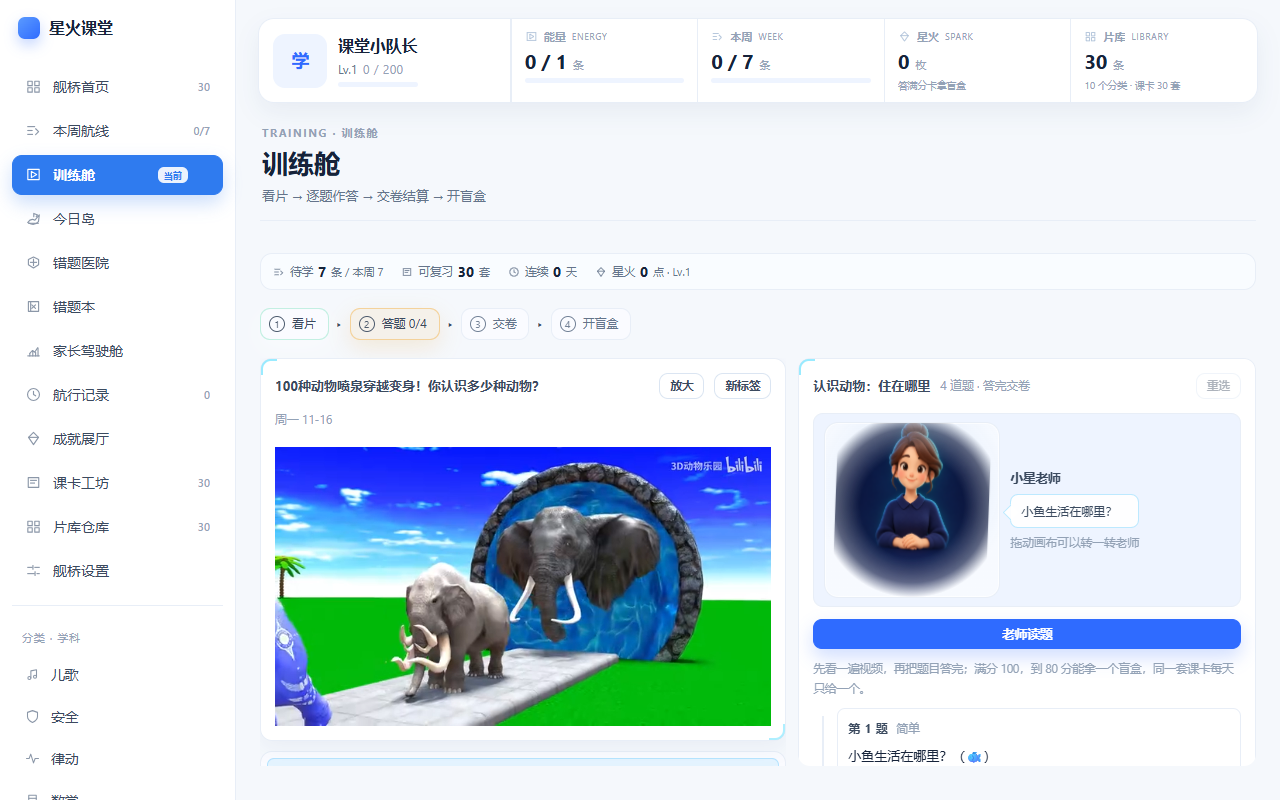
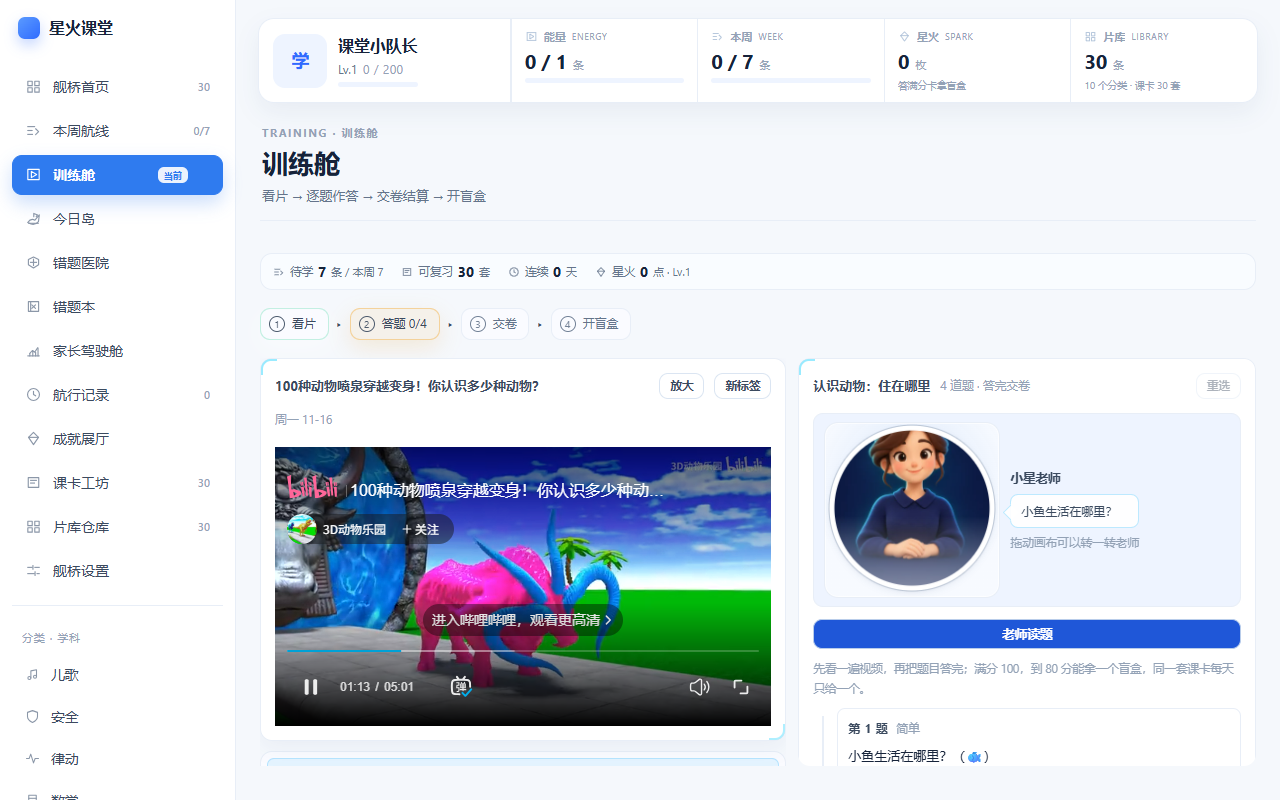
fix(teacher): 小星老师改圆形头像框，深底变相框
- 画布裁切由圆角矩形改为圆形（radius=min(w,h)×0.46），白描边 + 淡蓝外描边 + 柔和投影
- 去掉 0.9.1 的 destination-out 径向淡出（圆裁已解决深底出框），改圆内底部提亮
- 修自转露底：横向压缩 0.5-1.0 → 0.84-1.0，绘制尺寸 max(w,h)×1.32，任何角度圆内不露底色
- 朗读光晕移入圆内跟随口型；docs/screenshots/learn.png 换本轮真机画面；版本 0.9.3

Changed region(s): [[0.1875, 0.5312, 0.9688, 0.9062]]

diff --git a/client.js b/client.js
@@ -283,23 +283,26 @@ window.__ModuleLoader__.load({
           const cy = cssH / 2 + bob - speak * 1.6
           const art = teacherArtImage()
           if (art && art.complete && art.naturalWidth > 0 && typeof ctx.drawImage === 'function') {
-            if (speaking) {
-              const glow = ctx.createRadialGradient(cx, cy - 8 * scale, 6 * scale, cx, cy - 8 * scale, 66 * scale)
-              glow.addColorStop(0, 'rgba(124,214,255,' + (0.18 + speak * 0.2).toFixed(3) + ')')
-              glow.addColorStop(1, 'rgba(124,214,255,0)')
-              ctx.fillStyle = glow
-              ctx.beginPath()
-              ctx.arc(cx, cy - 8 * scale, 66 * scale, 0, Math.PI * 2)
-              ctx.fill()
-            }
-            const side = Math.max(cssW, cssH) * 1.04 * breath
+            // 圆形头像框：素材是不透明深底，圆形裁切把深底变成「相框」
+            const faceR = Math.min(cssW, cssH) * 0.46
+            const ringW = Math.max(3, Math.round(Math.min(cssW, cssH) * 0.026))
+            const side = Math.max(cssW, cssH) * 1.32 * breath
             const cos = Math.cos(yaw)
-            const squeeze = 0.5 + 0.5 * Math.abs(cos)
+            const squeeze = 0.84 + 0.16 * Math.abs(cos)
             ctx.save()
             ctx.beginPath()
-            if (typeof ctx.roundRect === 'function') ctx.roundRect(0, 0, cssW, cssH, 10)
-            else ctx.rect(0, 0, cssW, cssH)
+            ctx.arc(cx, cy, faceR, 0, Math.PI * 2)
+            ctx.fillStyle = '#f7faff'
+            ctx.shadowColor = 'rgba(23,58,110,0.16)'
+            ctx.shadowBlur = 9 * scale
+            ctx.shadowOffsetY = 3 * scale
+            ctx.fill()
+            ctx.restore()
+            ctx.save()
+            ctx.beginPath()
+            ctx.arc(cx, cy, faceR, 0, Math.PI * 2)
             ctx.clip()
+            ctx.save()
             ctx.imageSmoothingEnabled = true
             ctx.imageSmoothingQuality = 'high'
             ctx.translate(cx, cy)
@@ -307,15 +310,32 @@ window.__ModuleLoader__.load({
             ctx.scale(cos < 0 ? -1 : 1, 1)
             ctx.drawImage(art, -side * squeeze / 2, -side / 2, side * squeeze, side)
             ctx.restore()
-            // 老师原图自带深色底，用径向淡出把四角融进浅色卡片，只留人物周围的柔和暗晕
-            const vignette = ctx.createRadialGradient(cx, cy - 4 * scale, Math.min(cssW, cssH) * 0.30, cx, cy - 4 * scale, Math.min(cssW, cssH) * 0.53)
-            vignette.addColorStop(0, 'rgba(0,0,0,0)')
-            vignette.addColorStop(0.62, 'rgba(0,0,0,0.35)')
-            vignette.addColorStop(1, 'rgba(0,0,0,1)')
+            if (speaking) {
+              const glow = ctx.createRadialGradient(cx, cy - 14 * scale, 4 * scale, cx, cy - 14 * scale, faceR * 1.1)
+              glow.addColorStop(0, 'rgba(124,214,255,' + (0.16 + speak * 0.22).toFixed(3) + ')')
+              glow.addColorStop(1, 'rgba(124,214,255,0)')
+              ctx.fillStyle = glow
+              ctx.beginPath()
+              ctx.arc(cx, cy, faceR, 0, Math.PI * 2)
+              ctx.fill()
+            }
+            const lift = ctx.createLinearGradient(0, cy + faceR * 0.1, 0, cy + faceR)
+            lift.addColorStop(0, 'rgba(247,250,255,0)')
+            lift.addColorStop(1, 'rgba(247,250,255,0.5)')
+            ctx.fillStyle = lift
+            ctx.fillRect(cx - faceR, cy + faceR * 0.1, faceR * 2, faceR)
+            ctx.restore()
             ctx.save()
-            ctx.globalCompositeOperation = 'destination-out'
-            ctx.fillStyle = vignette
-            ctx.fillRect(0, 0, cssW, cssH)
+            ctx.beginPath()
+            ctx.arc(cx, cy, faceR, 0, Math.PI * 2)
+            ctx.lineWidth = ringW
+            ctx.strokeStyle = '#ffffff'
+            ctx.stroke()
+            ctx.beginPath()
+            ctx.arc(cx, cy, faceR + ringW / 2 + 0.5, 0, Math.PI * 2)
+            ctx.lineWidth = 1
+            ctx.strokeStyle = 'rgba(147,162,182,0.55)'
+            ctx.stroke()
             ctx.restore()
           }
           timeRef.current = ts

diff --git a/README.en.md b/README.en.md
@@ -28,6 +28,11 @@ It is not a recommendation algorithm — the parent chooses every clip and has t
 | Card workshop | One quiz card per video, 3–8 questions each |
 | Bridge settings | Clips per day / default age / weekly box cap; the 54-item prize pool with stock and weights; medal thresholds; **parent-lock PIN**; content pack export/import; replay onboarding |
 
+### New in 0.9.3 (round avatar frame for the teacher)
+
+- The teacher portrait now sits in a **circular avatar frame** (white ring, soft blue outer stroke, gentle drop shadow), so the artwork's dark background reads as portrait depth instead of a navy block on a light card.
+- Horizontal squeeze during the drag-to-turn animation is reduced from 0.5–1.0 to 0.84–1.0 with a larger draw size, so no angle exposes the colour outside the circle; the speaking glow now stays inside the circle.
+
 ### New in 0.9.2 (asset size)
 
 - All 20 illustrations are now **WebP** (quality 88, alpha preserved): `assets/art` drops from 7.0MB to 0.64MB and the delivery zip from 9.4MB to 1.9MB.

diff --git a/README.md b/README.md
@@ -27,6 +27,11 @@
 | 课卡工坊 | 一条视频一套卡，每套 3–8 题 |
 | 舰桥设置 | 每天几条 / 默认年龄 / 每周抽盒上限；奖品池 54 件的库存与权重；勋章门槛；**家长锁 PIN**；内容包导出/导入；重看新手引导 |
 
+### 0.9.3 新增（小星老师圆形头像框）
+
+- 老师肖像改成**圆形头像框**：白描边 + 淡蓝外描边 + 柔和投影，素材自带的深色底变成镜头景深背景，不再是压在浅色卡片上的深蓝方块。
+- 自转时的横向压缩由 0.5–1.0 收到 0.84–1.0，并加大绘制尺寸，任何角度都不会露出圆形外的底色；朗读光晕改到圆内，跟随口型呼吸。
+
 ### 0.9.2 新增（素材体积）
 
 - 20 张插画由 PNG 改为 **WebP**（quality 88，保留透明通道），`assets/art` 从 7.0MB 降到 0.64MB，交付 zip 从 9.4MB 降到 1.9MB。
